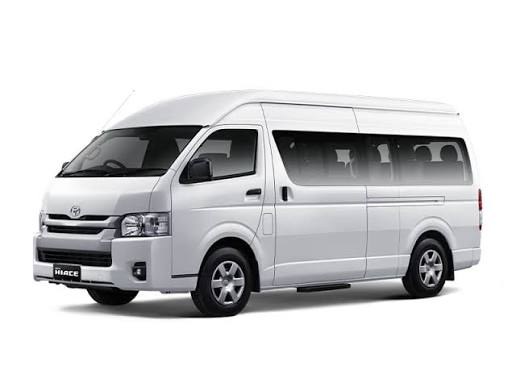
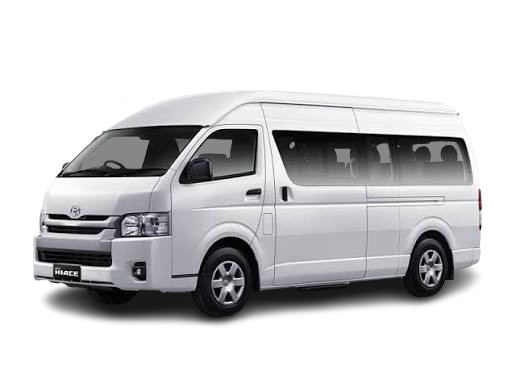
Add files via upload

diff --git a/style.css b/style.css
@@ -370,9 +370,53 @@ section {
 
 .mobile-menu-toggle {
     display: none;
-    font-size: 1.5rem;
-    color: var(--dark);
+    background: transparent;
+    border: none;
+    width: 28px;
+    height: 20px;
+    position: relative;
     cursor: pointer;
+    z-index: 1000;
+}
+
+.mobile-menu-toggle span {
+    display: block;
+    position: absolute;
+    height: 3px;
+    width: 100%;
+    background-color: var(--dark);
+    border-radius: 9px;
+    opacity: 1;
+    left: 0;
+    transform: rotate(0deg);
+    transition: .25s ease-in-out;
+}
+
+.mobile-menu-toggle span:nth-child(1) {
+    top: 0px;
+}
+
+.mobile-menu-toggle span:nth-child(2) {
+    top: 8px;
+}
+
+.mobile-menu-toggle span:nth-child(3) {
+    top: 16px;
+}
+
+.mobile-menu-toggle.active span:nth-child(1) {
+    top: 8px;
+    transform: rotate(135deg);
+}
+
+.mobile-menu-toggle.active span:nth-child(2) {
+    opacity: 0;
+    left: -40px;
+}
+
+.mobile-menu-toggle.active span:nth-child(3) {
+    top: 8px;
+    transform: rotate(-135deg);
 }
 
 /* HERO SECTION */
@@ -1393,21 +1437,26 @@ section {
 /* SCROLL ANIMATIONS */
 .animate-on-scroll {
     opacity: 0;
-    transform: translateY(30px);
-    transition: opacity 0.6s cubic-bezier(0.16, 1, 0.3, 1), transform 0.6s cubic-bezier(0.16, 1, 0.3, 1);
+    transform: translateY(40px) scale(0.96);
+    transition: opacity 0.8s cubic-bezier(0.16, 1, 0.3, 1), transform 0.8s cubic-bezier(0.16, 1, 0.3, 1);
+    will-change: transform, opacity;
 }
 
 .animate-on-scroll.appear {
     opacity: 1;
-    transform: translateY(0);
+    transform: translateY(0) scale(1);
 }
 
 /* Delay modifiers for scroll animations */
-.animate-on-scroll:nth-child(2) { transition-delay: 0.1s; }
-.animate-on-scroll:nth-child(3) { transition-delay: 0.2s; }
-.animate-on-scroll:nth-child(4) { transition-delay: 0.3s; }
-.animate-on-scroll:nth-child(5) { transition-delay: 0.4s; }
-.animate-on-scroll:nth-child(6) { transition-delay: 0.5s; }
+.animate-on-scroll:nth-child(2) { transition-delay: 0.08s; }
+.animate-on-scroll:nth-child(3) { transition-delay: 0.16s; }
+.animate-on-scroll:nth-child(4) { transition-delay: 0.24s; }
+.animate-on-scroll:nth-child(5) { transition-delay: 0.32s; }
+.animate-on-scroll:nth-child(6) { transition-delay: 0.40s; }
+.animate-on-scroll:nth-child(7) { transition-delay: 0.48s; }
+.animate-on-scroll:nth-child(8) { transition-delay: 0.56s; }
+.animate-on-scroll:nth-child(9) { transition-delay: 0.64s; }
+.animate-on-scroll:nth-child(10) { transition-delay: 0.72s; }
 
 /* RESPONSIVE DESIGN (MOBILE FIRST OVERRIDES) */
 

diff --git a/index.html b/index.html
@@ -75,7 +75,9 @@
 
             <!-- Mobile Menu Toggle Button -->
             <button class="mobile-menu-toggle" id="menuToggle" aria-label="Toggle Navigation">
-                <i class="fa-solid fa-bars-staggered"></i>
+                <span></span>
+                <span></span>
+                <span></span>
             </button>
 
             <!-- Navigation Menu -->
@@ -103,7 +105,8 @@
             <div class="hero-content">
                 <span class="hero-tagline">Premium Car Rental</span>
                 <h1 class="hero-title">Sewa Mobil Tanjung Pinang Murah &amp; Terpercaya</h1>
-                <p class="hero-subtitle">Jasa sewa mobil Tanjung Pinang dengan pilihan armada terlengkap, kondisi prima, dan harga sewa termurah untuk kebutuhan liburan atau bisnis Anda.</p>
+                <p class="hero-subtitle">Jasa sewa mobil Tanjung Pinang dengan pilihan armada terlengkap, kondisi prima,
+                    dan harga sewa termurah untuk kebutuhan liburan atau bisnis Anda.</p>
                 <div class="hero-buttons">
                     <a href="#booking" class="btn btn-primary btn-lg">Booking Sekarang</a>
                     <a href="#armada" class="btn btn-outline-white btn-lg">Lihat Armada</a>
@@ -149,7 +152,7 @@
                                 <option value="Toyota Avanza Grand">Toyota Avanza Grand</option>
                                 <option value="Daihatsu All New Xenia">Daihatsu All New Xenia</option>
                                 <option value="Toyota All New Veloz">Toyota All New Veloz</option>
-                                
+
                                 <option value="Toyota Innova Reborn">Toyota Innova Reborn</option>
                                 <option value="Toyota Innova Zenix">Toyota Innova Zenix</option>
                                 <option value="Toyota Innova Zenix Hybrid">Toyota Innova Zenix Hybrid</option>
@@ -242,7 +245,7 @@
                 <div class="car-card animate-on-scroll">
                     <div class="car-image-container car-image-contain">
                         <span class="car-badge">Hemat</span>
-                        <img src="assets/xenia.jpg" alt="Daihatsu All New Xenia" class="car-image" loading="lazy">
+                        <img src="assets/xenia.png" alt="Daihatsu All New Xenia" class="car-image" loading="lazy">
                     </div>
                     <div class="car-details">
                         <h3 class="car-name">Daihatsu All New Xenia</h3>
@@ -285,7 +288,7 @@
                         </div>
                         <div class="car-price-row">
                             <div class="car-price">
-                                <span class="price-amount">Rp 400.000</span>
+                                <span class="price-amount">Rp 350.000</span>
                                 <span class="price-unit">/ hari</span>
                             </div>
                             <a href="https://wa.me/6282285807402?text=Halo%20Zelina%20Transport,%20saya%20ingin%20sewa%20mobil%20Toyota%20All%20New%20Veloz."
@@ -306,7 +309,7 @@
                     <div class="car-details">
                         <h3 class="car-name">Toyota Innova Reborn</h3>
                         <div class="car-specs">
-                            <span><i class="fa-solid fa-users"></i> 7 Kursi</span>
+                            <span><i class="fa-solid fa-users"></i> 8 Kursi</span>
                             <span><i class="fa-solid fa-gears"></i> Matic</span>
                             <span><i class="fa-solid fa-gas-pump"></i> Diesel/Bensin</span>
                         </div>
@@ -315,7 +318,7 @@
                         </div>
                         <div class="car-price-row">
                             <div class="car-price">
-                                <span class="price-amount">Rp 650.000</span>
+                                <span class="price-amount">Rp 500.000</span>
                                 <span class="price-unit">/ hari</span>
                             </div>
                             <a href="https://wa.me/6282285807402?text=Halo%20Zelina%20Transport,%20saya%20ingin%20sewa%20mobil%20Toyota%20Innova%20Reborn."
@@ -335,7 +338,7 @@
                     <div class="car-details">
                         <h3 class="car-name">Toyota Innova Zenix</h3>
                         <div class="car-specs">
-                            <span><i class="fa-solid fa-users"></i> 7 Kursi</span>
+                            <span><i class="fa-solid fa-users"></i> 8 Kursi</span>
                             <span><i class="fa-solid fa-gears"></i> Matic</span>
                             <span><i class="fa-solid fa-gas-pump"></i> Bensin</span>
                         </div>
@@ -344,7 +347,7 @@
                         </div>
                         <div class="car-price-row">
                             <div class="car-price">
-                                <span class="price-amount">Rp 800.000</span>
+                                <span class="price-amount">Rp 600.000</span>
                                 <span class="price-unit">/ hari</span>
                             </div>
                             <a href="https://wa.me/6282285807402?text=Halo%20Zelina%20Transport,%20saya%20ingin%20sewa%20mobil%20Toyota%20Innova%20Zenix."
@@ -359,12 +362,13 @@
                 <div class="car-card animate-on-scroll">
                     <div class="car-image-container car-image-contain">
                         <span class="car-badge">Hybrid</span>
-                        <img src="assets/zenix_hybrid.png" alt="Toyota Innova Zenix Hybrid" class="car-image" loading="lazy">
+                        <img src="assets/zenix_hybrid.png" alt="Toyota Innova Zenix Hybrid" class="car-image"
+                            loading="lazy">
                     </div>
                     <div class="car-details">
                         <h3 class="car-name">Toyota Innova Zenix Hybrid</h3>
                         <div class="car-specs">
-                            <span><i class="fa-solid fa-users"></i> 7 Kursi</span>
+                            <span><i class="fa-solid fa-users"></i> 8 Kursi</span>
                             <span><i class="fa-solid fa-gears"></i> Matic</span>
                             <span><i class="fa-solid fa-gas-pump"></i> Hybrid</span>
                         </div>
@@ -373,7 +377,7 @@
                         </div>
                         <div class="car-price-row">
                             <div class="car-price">
-                                <span class="price-amount">Rp 950.000</span>
+                                <span class="price-amount">Rp 700.000</span>
                                 <span class="price-unit">/ hari</span>
                             </div>
                             <a href="https://wa.me/6282285807402?text=Halo%20Zelina%20Transport,%20saya%20ingin%20sewa%20mobil%20Toyota%20Innova%20Zenix%20Hybrid."
@@ -431,7 +435,7 @@
                         </div>
                         <div class="car-price-row">
                             <div class="car-price">
-                                <span class="price-amount">Rp 1.200.000</span>
+                                <span class="price-amount">Rp 1.300.000</span>
                                 <span class="price-unit">/ hari</span>
                             </div>
                             <a href="https://wa.me/6282285807402?text=Halo%20Zelina%20Transport,%20saya%20ingin%20sewa%20mobil%20Mitsubishi%20Pajero%20Sport."
@@ -460,7 +464,7 @@
                         </div>
                         <div class="car-price-row">
                             <div class="car-price">
-                                <span class="price-amount">Rp 3.000.000</span>
+                                <span class="price-amount">Rp 6.000.000</span>
                                 <span class="price-unit">/ hari</span>
                             </div>
                             <a href="https://wa.me/6282285807402?text=Halo%20Zelina%20Transport,%20saya%20ingin%20sewa%20mobil%20Toyota%20New%20Alphard."
@@ -475,12 +479,13 @@
                 <div class="car-card animate-on-scroll">
                     <div class="car-image-container car-image-contain">
                         <span class="car-badge">Grup Besar</span>
-                        <img src="assets/hiace_commuter.png" alt="Toyota Hiace Commuter" class="car-image" loading="lazy">
+                        <img src="assets/hiace_commuter.png" alt="Toyota Hiace Commuter" class="car-image"
+                            loading="lazy">
                     </div>
                     <div class="car-details">
                         <h3 class="car-name">Toyota Hiace Commuter</h3>
                         <div class="car-specs">
-                            <span><i class="fa-solid fa-users"></i> 15 Kursi</span>
+                            <span><i class="fa-solid fa-users"></i> 14 Kursi</span>
                             <span><i class="fa-solid fa-gears"></i> Manual</span>
                             <span><i class="fa-solid fa-gas-pump"></i> Diesel</span>
                         </div>
@@ -489,7 +494,7 @@
                         </div>
                         <div class="car-price-row">
                             <div class="car-price">
-                                <span class="price-amount">Rp 1.000.000</span>
+                                <span class="price-amount">Rp 1.200.000</span>
                                 <span class="price-unit">/ hari</span>
                             </div>
                             <a href="https://wa.me/6282285807402?text=Halo%20Zelina%20Transport,%20saya%20ingin%20sewa%20mobil%20Toyota%20Hiace%20Commuter."
@@ -518,7 +523,7 @@
                         </div>
                         <div class="car-price-row">
                             <div class="car-price">
-                                <span class="price-amount">Rp 1.300.000</span>
+                                <span class="price-amount">Rp 1.400.000</span>
                                 <span class="price-unit">/ hari</span>
                             </div>
                             <a href="https://wa.me/6282285807402?text=Halo%20Zelina%20Transport,%20saya%20ingin%20sewa%20mobil%20Toyota%20Hiace%20Premio."
@@ -538,16 +543,16 @@
                     <div class="car-details">
                         <h3 class="car-name">Bus Pariwisata</h3>
                         <div class="car-specs">
-                            <span><i class="fa-solid fa-users"></i> 30-45 Kursi</span>
+                            <span><i class="fa-solid fa-users"></i> 35 Kursi</span>
                             <span><i class="fa-solid fa-gears"></i> Manual</span>
                             <span><i class="fa-solid fa-gas-pump"></i> Diesel</span>
                         </div>
                         <div class="car-option-badge">
-                            <i class="fa-solid fa-key"></i> Lepas Kunci / Dengan Driver
+                            <i class="fa-solid fa-key"></i>Dengan Driver
                         </div>
                         <div class="car-price-row">
                             <div class="car-price">
-                                <span class="price-amount">Rp 2.500.000</span>
+                                <span class="price-amount">Rp 1.800.000</span>
                                 <span class="price-unit">/ hari</span>
                             </div>
                             <a href="https://wa.me/6282285807402?text=Halo%20Zelina%20Transport,%20saya%20ingin%20sewa%20Bus%20Pariwisata."
@@ -641,8 +646,7 @@
             <div class="destinations-grid">
                 <!-- Destination 1 -->
                 <div class="dest-card animate-on-scroll">
-                    <img src="assets/wisata_tanjungpinang.png"
-                        alt="Tanjung Pinang" class="dest-image" loading="lazy">
+                    <img src="assets/wisata_tanjungpinang.png" alt="Tanjung Pinang" class="dest-image" loading="lazy">
                     <div class="dest-overlay"></div>
                     <div class="dest-content">
                         <h3>Tanjung Pinang</h3>
@@ -651,8 +655,7 @@
                 </div>
                 <!-- Destination 2 -->
                 <div class="dest-card animate-on-scroll">
-                    <img src="assets/wisata_bintan.png"
-                        alt="Bintan" class="dest-image" loading="lazy">
+                    <img src="assets/wisata_bintan.png" alt="Bintan" class="dest-image" loading="lazy">
                     <div class="dest-overlay"></div>
                     <div class="dest-content">
                         <h3>Bintan</h3>
@@ -661,8 +664,7 @@
                 </div>
                 <!-- Destination 3 -->
                 <div class="dest-card animate-on-scroll">
-                    <img src="assets/wisata_lagoi.png"
-                        alt="Lagoi" class="dest-image" loading="lazy">
+                    <img src="assets/wisata_lagoi.png" alt="Lagoi" class="dest-image" loading="lazy">
                     <div class="dest-overlay"></div>
                     <div class="dest-content">
                         <h3>Lagoi</h3>
@@ -671,8 +673,7 @@
                 </div>
                 <!-- Destination 4 -->
                 <div class="dest-card animate-on-scroll">
-                    <img src="assets/wisata_trikora.png"
-                        alt="Pantai Trikora" class="dest-image" loading="lazy">
+                    <img src="assets/wisata_trikora.png" alt="Pantai Trikora" class="dest-image" loading="lazy">
                     <div class="dest-overlay"></div>
                     <div class="dest-content">
                         <h3>Pantai Trikora</h3>
@@ -681,8 +682,7 @@
                 </div>
                 <!-- Destination 5 -->
                 <div class="dest-card animate-on-scroll">
-                    <img src="assets/wisata_penyengat.png"
-                        alt="Penyengat Island" class="dest-image" loading="lazy">
+                    <img src="assets/wisata_penyengat.png" alt="Penyengat Island" class="dest-image" loading="lazy">
                     <div class="dest-overlay"></div>
                     <div class="dest-content">
                         <h3>Pulau Penyengat</h3>
@@ -892,8 +892,8 @@
     </a>
 
     <!-- Floating WhatsApp Button -->
-    <a href="https://wa.me/6282285807402?text=Halo%20Zelina%20Transport,%20saya%20ingin%20sewa%20mobil."
-        target="_blank" class="whatsapp-float" aria-label="Hubungi Kami Via WhatsApp">
+    <a href="https://wa.me/6282285807402?text=Halo%20Zelina%20Transport,%20saya%20ingin%20sewa%20mobil." target="_blank"
+        class="whatsapp-float" aria-label="Hubungi Kami Via WhatsApp">
         <i class="fa-brands fa-whatsapp"></i>
         <span class="whatsapp-float-tooltip">Chat WhatsApp</span>
     </a>

diff --git a/script.js b/script.js
@@ -14,23 +14,15 @@ document.addEventListener('DOMContentLoaded', () => {
     if (menuToggle && navMenu) {
         menuToggle.addEventListener('click', (e) => {
             e.stopPropagation();
+            menuToggle.classList.toggle('active');
             navMenu.classList.toggle('active');
-            
-            // Toggle hamburger icon animation
-            const icon = menuToggle.querySelector('i');
-            if (navMenu.classList.contains('active')) {
-                icon.className = 'fa-solid fa-xmark';
-            } else {
-                icon.className = 'fa-solid fa-bars-staggered';
-            }
         });
 
         // Close menu when clicking outside of it
         document.addEventListener('click', (e) => {
             if (!navMenu.contains(e.target) && !menuToggle.contains(e.target)) {
+                menuToggle.classList.remove('active');
                 navMenu.classList.remove('active');
-                const icon = menuToggle.querySelector('i');
-                icon.className = 'fa-solid fa-bars-staggered';
             }
         });
 
@@ -38,9 +30,8 @@ document.addEventListener('DOMContentLoaded', () => {
         const navLinks = document.querySelectorAll('.nav-link');
         navLinks.forEach(link => {
             link.addEventListener('click', () => {
+                menuToggle.classList.remove('active');
                 navMenu.classList.remove('active');
-                const icon = menuToggle.querySelector('i');
-                icon.className = 'fa-solid fa-bars-staggered';
             });
         });
     }